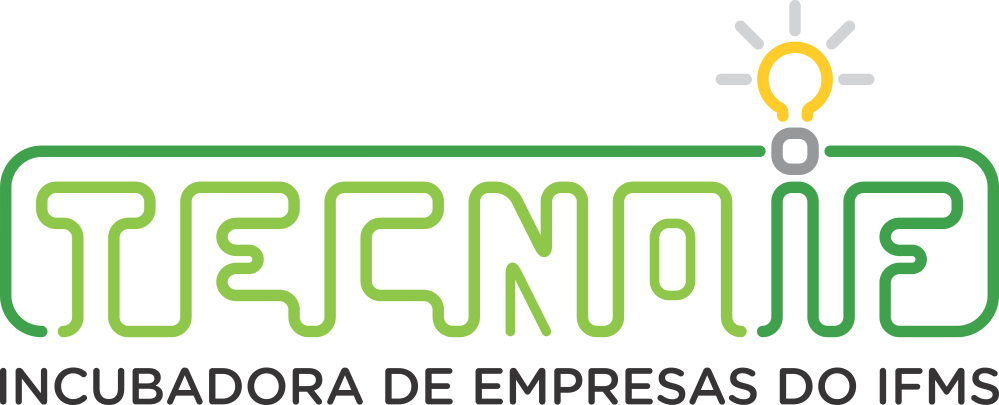
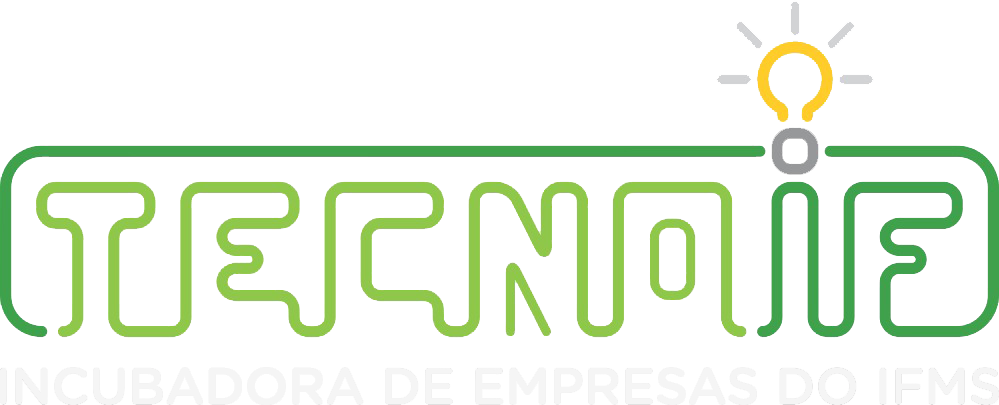
melhoria na identidade visual

diff --git a/resources/views/home/index.blade.php b/resources/views/home/index.blade.php
@@ -11,7 +11,7 @@
 <main role="main">
     <div class="container-brant" id="cabecalho">
         <nav class="navbar navbar-expand-lg navbar-dark bg-primary">
-            <a class="navbar-brand " href="#"> <img id="LogoCabecalho" src="{{ asset('img/logott.png') }}"
+            <a class="navbar-brand " href="#"> <img id="LogoCabecalho" src="{{ asset('img/tecnoIF.png') }}"
                                                     alt="logo TecnoIF"> </a>
             <button class="navbar-toggler" type="button" data-toggle="collapse" data-target="#navbarSite">
                 <span class="navbar-toggler-icon"></span>
